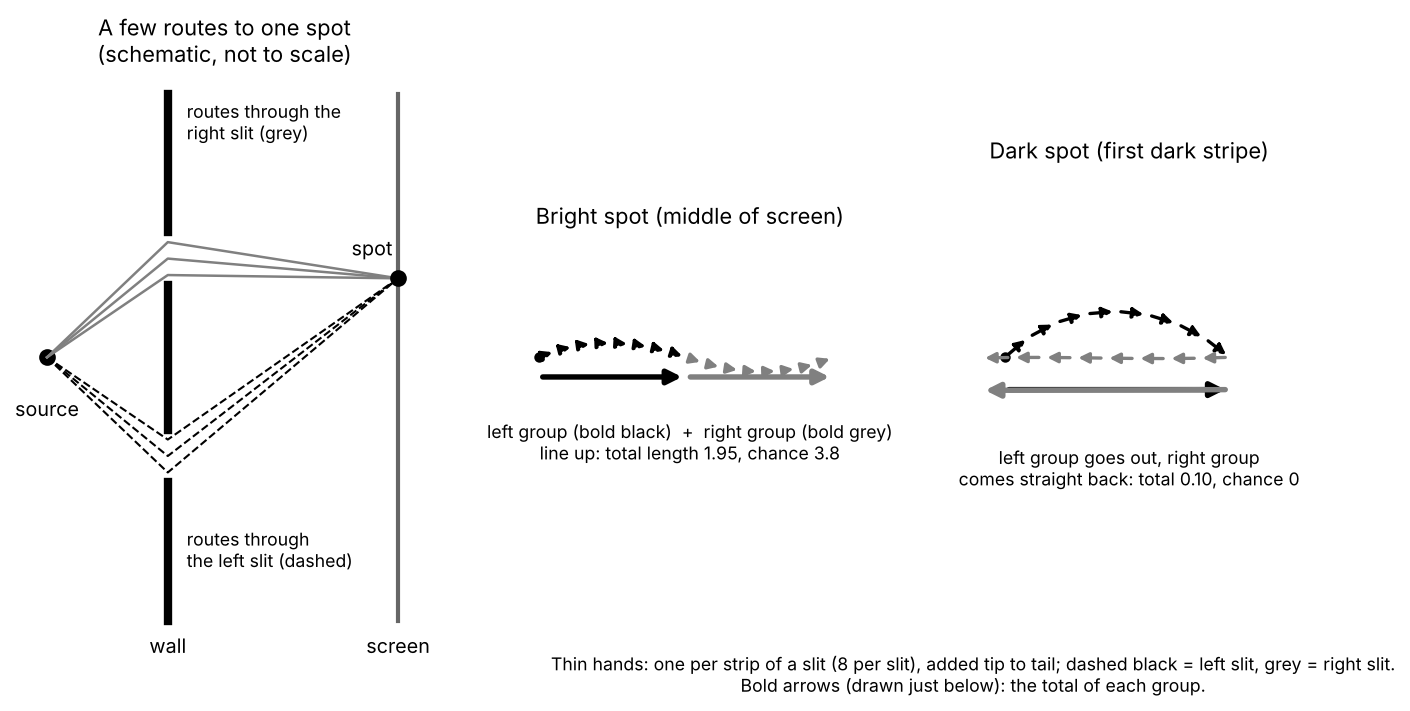
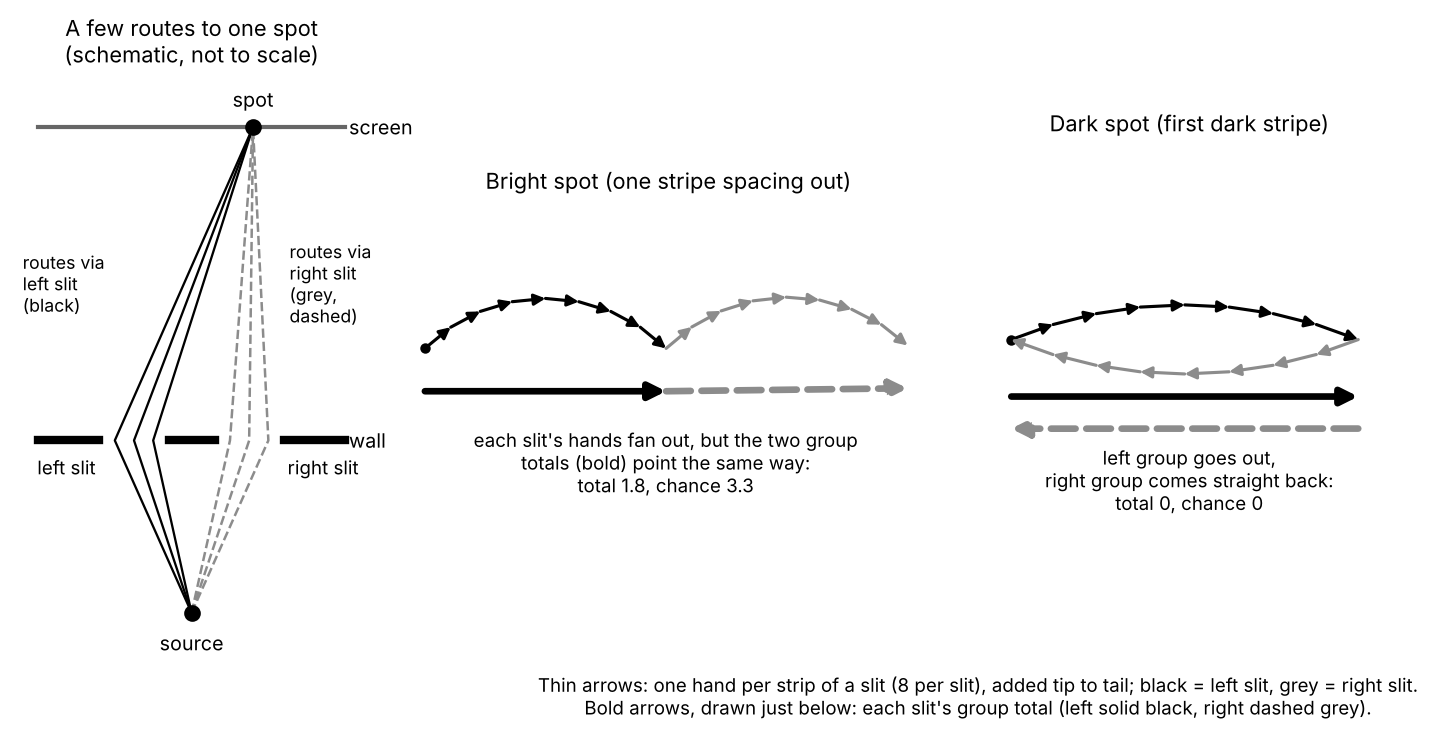
Explanation A: section figures (which-slit, model 1, model 2)
Claude-Session: https://claude.ai/code/session_011EeWx5AEdppYiarvRbDBmd

diff --git a/work/20261008-075243-what-is-qm/checks/fig_a-model2.py b/work/20261008-075243-what-is-qm/checks/fig_a-model2.py
@@ -1,8 +1,9 @@
 # Figure a-model2: sum over paths.
 # Left panel: SCHEMATIC (not to scale) geometry: source, two slits, a few routes to one spot.
 # Right panels: COMPUTED clock hands for a real 2D geometry (lengths in wavelengths):
-#   source on the axis 300 wavelengths before the wall; slits of width a = 4, centres at +-8 (d = 4a = 16);
-#   screen L = 2000 wavelengths behind the wall (far screen: d^2/(lambda L) = 0.128).
+#   source on the axis 1e5 wavelengths before the wall; slits of width a = 4, centres at +-8 (d = 4a = 16);
+#   screen L = 1e5 wavelengths behind the wall (far on both sides: d^2/(lambda L) = 0.00256),
+#   i.e. the same ideal set-up as figures a-one-vs-both and a-model1.
 # Each slit is cut into n = 8 strips; each hand stands for the routes through one strip:
 # angle = 2*pi*(length source->strip centre + strip centre->spot)/lambda, all hands of equal length 1/n
 # (the 1/distance weighting varies by under 1% here and is left out).
@@ -10,7 +11,7 @@ import os, numpy as np, matplotlib
 matplotlib.use('Agg'); import matplotlib.pyplot as plt
 from matplotlib.gridspec import GridSpec
 here = os.path.dirname(os.path.abspath(__file__)); out = os.path.join(here, '..', 'figures', 'a-model2.png')
-lam, Ls, L, a, d, n = 1.0, 300.0, 2000.0, 4.0, 16.0, 8
+lam, Ls, L, a, d, n = 1.0, 1e5, 1e5, 4.0, 16.0, 8
 k = 2*np.pi/lam
 def strips(c, m): return c - a/2 + (np.arange(m) + 0.5)*a/m
 def hands(x, m=n):
@@ -25,13 +26,15 @@ def total(x, m=n):
 xx = np.linspace(0, 1.2*lam*L/d, 6001)
 Pfine = np.array([abs(total(x, 400))**2 for x in xx])
 Pdisc = np.array([abs(total(x))**2 for x in xx])
-x_bright = 0.0
+x_peak = xx[(xx > 0.8*lam*L/d)][np.argmax(Pdisc[xx > 0.8*lam*L/d])]; print(f'side bright peak at x = {x_peak:.1f}, chance {abs(total(x_peak))**2:.3f}')
+x_bright = lam*L/d   # exactly one stripe spacing out: the two groups line up exactly
+print(f'first side bright stripe x = {x_bright:.1f} (stripe spacing {lam*L/d:.1f})')
 win = (xx > 0.3*lam*L/d) & (xx < 0.8*lam*L/d)
 x_dark = xx[win][np.argmin(Pdisc[win])]; x_dark_fine = xx[win][np.argmin(Pfine[win])]
 print(f"stripe spacing lam*L/d = {lam*L/d:.1f}; first dark spot (8 strips) x = {x_dark:.2f}, (400 strips) x = {x_dark_fine:.2f}")
-print(f"chance (8 strips): bright {abs(total(0.0))**2:.3f}, dark {abs(total(x_dark))**2:.2e}; "
-      f"(400 strips): bright {abs(total(0.0,400))**2:.3f}, dark {abs(total(x_dark_fine,400))**2:.2e}")
-r = [np.hypot(Ls, y) + np.hypot(L, x - y) for x in (0, x_dark) for y in (strips(-d/2, n), strips(d/2, n))]
+print(f"chance (8 strips): centre {abs(total(0.0))**2:.3f}, side bright {abs(total(x_bright))**2:.3f}, dark {abs(total(x_dark))**2:.2e}; "
+      f"(400 strips): centre {abs(total(0.0,400))**2:.3f}, dark {abs(total(x_dark_fine,400))**2:.2e}")
+r = [np.hypot(Ls, y) + np.hypot(L, x - y) for x in (0, x_bright, x_dark) for y in (strips(-d/2, n), strips(d/2, n))]
 rr = np.concatenate(r); print("route length spread (1/r weighting variation):", round((rr.max()-rr.min())/rr.min()*100, 3), "%")
 for x, nm in ((x_bright, "bright"), (x_dark, "dark")):
     h = hands(x); gl, gr = h["left"].sum(), h["right"].sum()
@@ -42,55 +45,58 @@ for x, nm in ((x_bright, "bright"), (x_dark, "dark")):
           f"{np.degrees(np.ptp(np.unwrap(np.angle(h['right'])))):.0f} deg (right)")
 
 plt.rcParams.update({'font.size': 11})
-fig = plt.figure(figsize=(11, 4.9))
-gs = GridSpec(1, 3, width_ratios=[1.15, 1, 1], wspace=0.25, figure=fig)
-# ---- left: schematic geometry ----
-ax = fig.add_subplot(gs[0]); ax.set_xlim(-0.3, 10.3); ax.set_ylim(-4.3, 4.3); ax.axis('off')
-src = (0.3, 0.0); wall_x = 3.5; scr_x = 9.6; spot = (scr_x, 1.2)
-ax.plot(*src, 'ko', ms=7); ax.text(src[0], -0.6, "source", ha='center', va='top', fontsize=9.5)
-ys_l = [-1.75, -1.5, -1.25]; ys_r = [1.25, 1.5, 1.75]
-for (y0, y1) in ((-4.0, -1.9), (-1.1, 1.1), (1.9, 4.0)):
-    ax.plot([wall_x, wall_x], [y0, y1], 'k-', lw=4)
-ax.plot([scr_x, scr_x], [-4.0, 4.0], color='0.4', lw=2)
-ax.text(scr_x, -4.2, "screen", ha='center', va='top', fontsize=9.5)
-ax.text(wall_x, -4.2, "wall", ha='center', va='top', fontsize=9.5)
-for y in ys_l:
-    ax.plot([src[0], wall_x, spot[0]], [src[1], y, spot[1]], color='k', ls='--', lw=1.0)
-for y in ys_r:
-    ax.plot([src[0], wall_x, spot[0]], [src[1], y, spot[1]], color='0.5', ls='-', lw=1.2)
-ax.plot(*spot, 'ko', ms=7); ax.text(spot[0]-0.15, spot[1]+0.35, "spot", ha='right', fontsize=9.5)
-ax.text(4.0, -2.6, "routes through\nthe left slit (dashed)", fontsize=8.5, va='top')
-ax.text(4.0, 3.9, "routes through the\nright slit (grey)", fontsize=8.5, va='top')
+fig = plt.figure(figsize=(12, 5.2))
+gs = GridSpec(1, 3, width_ratios=[0.8, 1.2, 1.0], wspace=0.08, figure=fig)
+# ---- left: schematic geometry (beam travels upward; left slit on the left) ----
+ax = fig.add_subplot(gs[0]); ax.set_xlim(-4.6, 4.6); ax.set_ylim(-0.9, 10.6); ax.axis('off')
+src = (0.0, 0.3); wall_y = 3.6; scr_y = 9.6; spot = (1.6, scr_y)
+for (x0, x1) in ((-4.0, -2.4), (-0.6, 0.6), (2.4, 4.0)):
+    ax.plot([x0, x1], [wall_y, wall_y], 'k-', lw=4)
+ax.plot([-4.0, 4.0], [scr_y, scr_y], color='0.4', lw=2)
+ax.text(4.1, scr_y, "screen", va='center', fontsize=9.5)
+ax.text(4.1, wall_y, "wall", va='center', fontsize=9.5)
+for x in (-2.0, -1.5, -1.0):
+    ax.plot([src[0], x, spot[0]], [src[1], wall_y, spot[1]], color='k', lw=1.1)
+for x in (1.0, 1.5, 2.0):
+    ax.plot([src[0], x, spot[0]], [src[1], wall_y, spot[1]], color='0.55', ls='--', lw=1.2)
+ax.plot(*src, 'ko', ms=7); ax.text(src[0], src[1]-0.35, "source", ha='center', va='top', fontsize=9.5)
+ax.plot(*spot, 'ko', ms=7); ax.text(spot[0], spot[1]+0.3, "spot", ha='center', va='bottom', fontsize=9.5)
+ax.text(-2.5, wall_y-0.3, "left slit", ha='right', va='top', fontsize=9)
+ax.text(2.5, wall_y-0.3, "right slit", ha='left', va='top', fontsize=9)
+ax.text(-4.4, 6.6, "routes via\nleft slit\n(black)", fontsize=8.5, va='center')
+ax.text(2.55, 6.6, "routes via\nright slit\n(grey,\ndashed)", fontsize=8.5, va='center')
 ax.set_title("A few routes to one spot\n(schematic, not to scale)", fontsize=10.5)
 # ---- right: computed clock hands ----
 def draw(axp, x, title):
     h = hands(x); z = 0j
-    # rotate so the left-slit group total points to the right (overall angle is irrelevant)
-    rot = np.exp(-1j*np.angle(h["left"].sum()))
-    pts = [0j]
-    for name, col, ls in (("left", 'k', '--'), ("right", '0.5', '-')):
+    rot = np.exp(-1j*np.angle(h["left"].sum()))   # overall angle is irrelevant: left group total points right
+    for name, col in (("left", 'k'), ("right", '0.55')):
         for v in h[name]*rot:
             axp.annotate('', xy=((z+v).real, (z+v).imag), xytext=(z.real, z.imag),
-                         arrowprops=dict(arrowstyle='-|>', color=col, lw=1.6, ls=ls, mutation_scale=10))
-            z = z + v; pts.append(z)
+                         arrowprops=dict(arrowstyle='-|>', color=col, lw=1.5, mutation_scale=11,
+                                         shrinkA=0, shrinkB=0))
+            z = z + v
     gl = h["left"].sum()*rot; gr = h["right"].sum()*rot
-    off = -0.13j
+    off = -0.16j
     axp.annotate('', xy=((gl+off).real, (gl+off).imag), xytext=(off.real, off.imag),
-                 arrowprops=dict(arrowstyle='-|>', color='k', lw=2.6, mutation_scale=14))
-    axp.annotate('', xy=((gl+gr+off).real, (gl+gr+off).imag), xytext=((gl+off).real, (gl+off).imag),
-                 arrowprops=dict(arrowstyle='-|>', color='0.5', lw=2.6, mutation_scale=14))
+                 arrowprops=dict(arrowstyle='-|>', color='k', lw=3.2, mutation_scale=16, shrinkA=0, shrinkB=0))
+    off2 = off - (0.09j if abs(gl+gr) < 0.05 else 0)   # dark spot: right total drawn a little lower so both show
+    axp.annotate('', xy=((gl+gr+off2).real, (gl+gr+off2).imag), xytext=((gl+off2).real, (gl+off2).imag),
+                 arrowprops=dict(arrowstyle='-|>', color='0.55', lw=3.2, mutation_scale=16, shrinkA=0, shrinkB=0,
+                                 ls='--'))
     axp.plot([0], [0], 'ko', ms=4)
     axp.set_title(title, fontsize=10.5)
     axp.set_aspect('equal'); axp.axis('off')
     return gl, gr, z
-ax2 = fig.add_subplot(gs[1]); gl, gr, z = draw(ax2, x_bright, "Bright spot (middle of screen)")
-ax2.set_xlim(-0.15, 2.15); ax2.set_ylim(-0.8, 0.8)
-ax2.text(1.0, -0.42, "left group (bold black)  +  right group (bold grey)\nline up: total length "
-         f"{abs(z):.2f}, chance {abs(z)**2:.1f}", ha='center', va='top', fontsize=8.5)
+ax2 = fig.add_subplot(gs[1]); gl, gr, z = draw(ax2, x_bright, "Bright spot (one stripe spacing out)")
+ax2.set_xlim(-0.08, 1.9); ax2.set_ylim(-0.75, 0.55)
+ax2.text(0.9, -0.3, "each slit's hands fan out, but the two group\ntotals (bold) point the same way:\n"
+         f"total {abs(z):.1f}, chance {abs(z)**2:.1f}", ha='center', va='top', fontsize=9)
 ax3 = fig.add_subplot(gs[2]); gl, gr, z = draw(ax3, x_dark, "Dark spot (first dark stripe)")
-ax3.set_xlim(-0.2, 1.2); ax3.set_ylim(-0.75, 0.75)
-ax3.text(0.5, -0.36, "left group goes out, right group\ncomes straight back: total "
-         f"{abs(z):.2f}, chance {abs(z)**2:.0f}", ha='center', va='top', fontsize=8.5)
-fig.text(0.70, 0.04, "Thin hands: one per strip of a slit (8 per slit), added tip to tail; dashed black = left slit, grey = right slit.\n"
-         "Bold arrows (drawn just below): the total of each group.", ha='center', fontsize=8.5)
+ax3.set_xlim(-0.12, 1.12); ax3.set_ylim(-0.75, 0.55)
+ax3.text(0.5, -0.3, "left group goes out,\nright group comes straight back:\n"
+         f"total {abs(z):.0f}, chance {abs(z)**2:.0f}", ha='center', va='top', fontsize=9)
+fig.text(0.66, 0.06, "Thin arrows: one hand per strip of a slit (8 per slit), added tip to tail; black = left slit, grey = right slit.\n"
+         "Bold arrows, drawn just below: each slit's group total (left solid black, right dashed grey).",
+         ha='center', fontsize=9)
 fig.savefig(out, dpi=150, bbox_inches='tight'); print("saved", os.path.abspath(out))

diff --git a/work/20261008-075243-what-is-qm/checks/fig_a-interpretations.py b/work/20261008-075243-what-is-qm/checks/fig_a-interpretations.py
@@ -95,16 +95,16 @@ ax.text(5.0, 2.0, "\"Which slit?\" has no answer the theory gives.\nA record cha
 # (b) Many-worlds
 ax = axs[0, 1]; blank(ax)
 ax.set_title("Many-worlds  (schematic)", fontsize=12)
-box(ax, 1.55, 5.0, "electron +\nscreen\n(one joint\nstate)", fs=9.5)
-ys = [8.6, 6.8, 5.0, 3.2, 1.4]; dots = [0.25, 0.4, 0.5, 0.62, 0.75]
+box(ax, 1.55, 5.0, "electron\nreaches\nscreen", fs=9.5)
+ys = [8.8, 7.1, 5.4, 3.7, 2.0]; dots = [0.25, 0.4, 0.5, 0.62, 0.75]
 for yb, fx in zip(ys, dots):
     arrow(ax, (2.85, 5.0), (5.15, yb), cs='arc3,rad=0.0', color='0.35', lw=1.1)
     ax.add_patch(plt.Rectangle((5.3, yb-0.55), 2.2, 1.1, fc='0.92', ec='k', lw=0.9))
     ax.plot([5.3 + 2.2*fx], [yb], 'ko', ms=6)
-ax.text(7.75, 5.0, "every branch\nhas one dot,\nin a different\nplace", fontsize=9.5, va='center')
-ax.annotate("we are in one\nbranch and see\none dot", xy=(7.5, 8.6), xytext=(7.75, 7.6), fontsize=9.5, va='center',
+ax.text(7.75, 4.6, "every branch\nhas one dot,\nin a different\nplace", fontsize=9.5, va='center')
+ax.annotate("we are in one\nbranch and see\none dot", xy=(7.5, 8.8), xytext=(7.75, 7.8), fontsize=9.5, va='center',
             arrowprops=dict(arrowstyle='->', lw=0.8))
-ax.text(4.0, 0.45, "nothing collapses; all branches remain", fontsize=9.5, ha='center', style='italic')
+ax.text(4.2, 0.45, "electron and screen form one joint state with a branch\nfor each spot; nothing collapses, all branches remain", fontsize=9.5, ha='center', style='italic')
 
 # (c) Pilot-wave (computed)
 ax = axs[1, 0]
@@ -112,8 +112,6 @@ ax.set_title("Pilot-wave  (computed paths)", fontsize=12)
 for i in range(xs.shape[1]):
     ax.plot(ts, xs[:, i], color='k', lw=0.7)
 ax.axhline(0, color='0.45', ls='--', lw=1.0)
-ax.text(3.0, 1.0, "centre line: no path crosses it", fontsize=9, color='0.25', va='bottom',
-        bbox=dict(fc='white', ec='none', pad=0.5))
 # wall with two openings at z = 0
 W = 34
 for (y0, y1) in [(-W, -2.5), (-1.5, 1.5), (2.5, W)]:
@@ -123,17 +121,17 @@ P = Pf/Pf.max()
 ax.fill_betweenx(xg, T+0.05, T+0.05+1.1*P, color='0.7', lw=0)
 ax.plot([T+0.05, T+0.05], [-W, W], color='k', lw=1.0)
 ax.text(T+0.6, 25, "chance at\nthe screen", fontsize=9, ha='center')
-ins = ax.inset_axes([0.06, 0.64, 0.30, 0.33])
+ins = ax.inset_axes([0.07, 0.60, 0.29, 0.30])
 for i in range(xs.shape[1]):
     ins.plot(ts, xs[:, i], color='k', lw=0.6)
 ins.axhline(0, color='0.45', ls='--', lw=0.9)
 for (y0, y1) in [(-9, -2.5), (-1.5, 1.5), (2.5, 9)]:
     ins.add_patch(plt.Rectangle((-0.03, y0), 0.03, y1-y0, color='k'))
 ins.set_xlim(-0.05, 0.8); ins.set_ylim(-7, 7); ins.tick_params(labelsize=7.5)
-ins.set_title("zoom near the slits", fontsize=8.5)
+ins.set_yticks([]); ins.set_xticks([]); ins.set_title("zoom: first 0.8 units", fontsize=8.5, pad=2)
 ax.annotate("paths bunch\ninto bright stripes", xy=(T-0.05, spacing), xytext=(3.0, 25), fontsize=9,
             arrowprops=dict(arrowstyle='->', lw=0.8))
-ax.annotate("each path goes through\none slit, on a bent line", xy=(1.0, -5.5), xytext=(1.6, -27), fontsize=9,
+ax.annotate("each path goes through one slit,\non a bent line, and never crosses\nthe dashed centre line", xy=(1.0, -5.5), xytext=(1.2, -27), fontsize=9,
             arrowprops=dict(arrowstyle='->', lw=0.8))
 ax.set_xlim(-0.3, T+1.3); ax.set_ylim(-W, W)
 ax.set_xlabel("distance from the slits (arbitrary units)")

diff --git a/work/20261008-075243-what-is-qm/figures/a-interpretations.caption.md b/work/20261008-075243-what-is-qm/figures/a-interpretations.caption.md
@@ -1,0 +1,1 @@
+The four views of what one electron does between slits and dot. Three panels are schematic: Copenhagen-style (the wave function is a tool that gives the chances; the result is one dot; it gives no answer to "which slit?"), many-worlds (electron and screen become one joint state with a branch for each place the dot could be, drawn here as five branches although there are many more; we see the one dot in our branch), and objective collapse (the ripple stays spread out in flight and localizes at random almost at once only when the arrival sets huge numbers of particles in the screen moving). The pilot-wave panel (bottom left) is computed: paths of the electron steered by the wave, for 36 equally likely starting points, with time standing in for distance from the slits. Idealizations: one electron speed, motion across the beam only, and slit openings with soft (Gaussian) edges, which is why the pattern on the right has no faint side bands. Notice: every path goes through one slit and none crosses the dashed centre line; paths bend away from the dark lines and bunch into the bright stripes, so the paths together reproduce the usual pattern of chances (checked with 3,000 paths).

diff --git a/work/20261008-075243-what-is-qm/figures/a-model2.caption.md b/work/20261008-075243-what-is-qm/figures/a-model2.caption.md
@@ -1,0 +1,1 @@
+Left (schematic, not to scale): a few of the routes from the source through each slit to one spot on the screen. Right (computed): the clock hands for those routes, added tip to tail. The geometry is the ideal set-up of the earlier figures, with source and screen each 100,000 wavelengths from the wall. Each slit is cut into 8 strips. Each thin hand stands for the routes through one strip, and its angle is set by the length of the route through the strip's centre. All hands are drawn the same length; the real lengths differ by under 0.1%. The bold arrows, drawn just below, are each slit's group total. The whole diagram is turned so that the left-slit total points right; only the angles between hands matter. Bright spot, one stripe spacing out: within each slit the hands fan out, so each group total is a bit shorter than its 8 hands laid end to end, but the two totals point the same way. The total is 1.8 and the chance 3.3 (4 at the centre). Dark spot, half a stripe spacing out: the right-slit group comes straight back along the left one, so the total is 0 and so is the chance. With 400 strips per slit instead of 8 the results are the same.

diff --git a/work/20261008-075243-what-is-qm/figures/a-model1.caption.md b/work/20261008-075243-what-is-qm/figures/a-model1.caption.md
@@ -1,0 +1,1 @@
+Computed amplitudes and chances across the middle of a far screen, for the same ideal set-up as the earlier figures (only ±2.6 stripe spacings shown). Top: the amplitude arriving from each slit and their sum. Amplitudes are really clock hands (complex numbers), so this panel is a simplification: it shows only the part of each hand along the left-slit hand's direction (the real part, with all angles measured from the left-slit hand). Notice the bright spot in the middle, where the two amplitudes are alike (1 + 1 = 2), and the dark spot half a stripe out, where they are opposite (+0.97 and −0.97, close to +1 and −1) and the sum is 0. Middle: the full clock hands at five spots. Between bright and dark the right-slit hand points partly sideways, which the top panel does not show. Bottom: the chance is the squared size of the full sum (bold): 4 at the bright spot and 0 at the dark spot. Adding the two chances instead (dashed) gives about 2 at both spots and no stripes. Between bright and dark spots the chance is not the square of the top panel's bold curve, because that curve leaves out the sideways part.

diff --git a/work/20261008-075243-what-is-qm/figures/a-which-slit.caption.md b/work/20261008-075243-what-is-qm/figures/a-which-slit.caption.md
@@ -1,0 +1,1 @@
+Computed far-screen pattern for the ideal set-up of the earlier figures (slits four times further apart than they are wide), with a recorder that leaves a trace of which slit each electron used. "Overlap" measures how alike the recorder's two end states are: 1 means it ends the same either way and records nothing, 0 means the two states can be told apart for certain. Bold: what is seen. Dashed: the two one-slit patterns added, the same in every panel. Top, no record: the usual stripes, with dark stripes at zero. Middle, overlap 0.5: the stripes are half as strong and the dark stripes no longer reach zero (the first one sits at about a third of the central peak). Bottom, perfect record: no stripes at all; the bold curve lies exactly on the dashed one, including the faint one-slit side bands beyond ±4 (under 5% of the peak). Idealizations: the recorder does nothing else to the electron, and the overlap is taken as a plain positive number (a complex overlap would also shift the stripes sideways).
